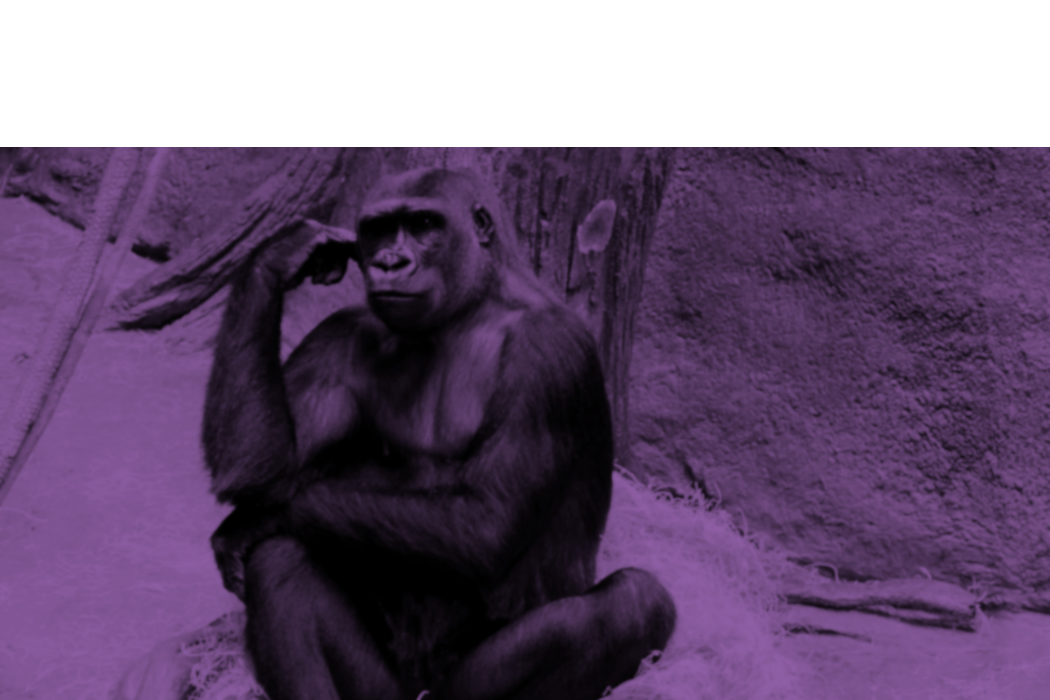
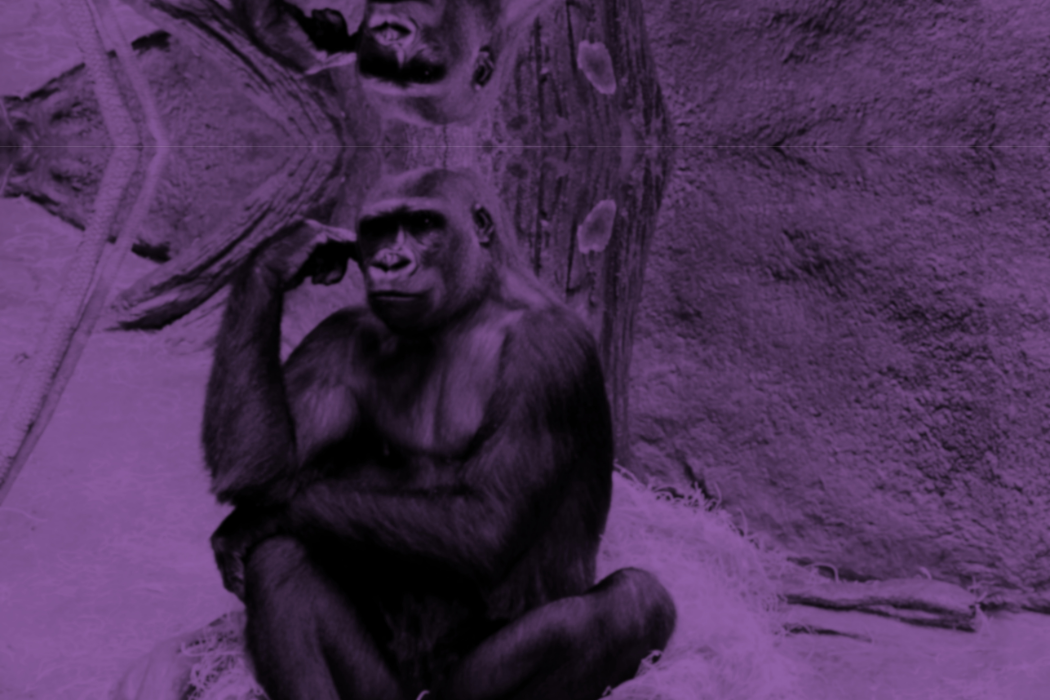
se reversionó la imagen de fondo del header, ya que contaba con un error desde canva

Changed region(s): [[0.0, 0.0, 1.0, 0.21]]

diff --git a/index.html b/index.html
@@ -92,7 +92,7 @@
 
     <header
       id="Hero-Section"
-      class="text-light text-end py-5 mt-5">
+      class="text-light text-end py-5">
       <div class="container">
         <div class="ms-auto col-12 col-md-7">
           <h1 class="display-1 fw-bold my-5">
